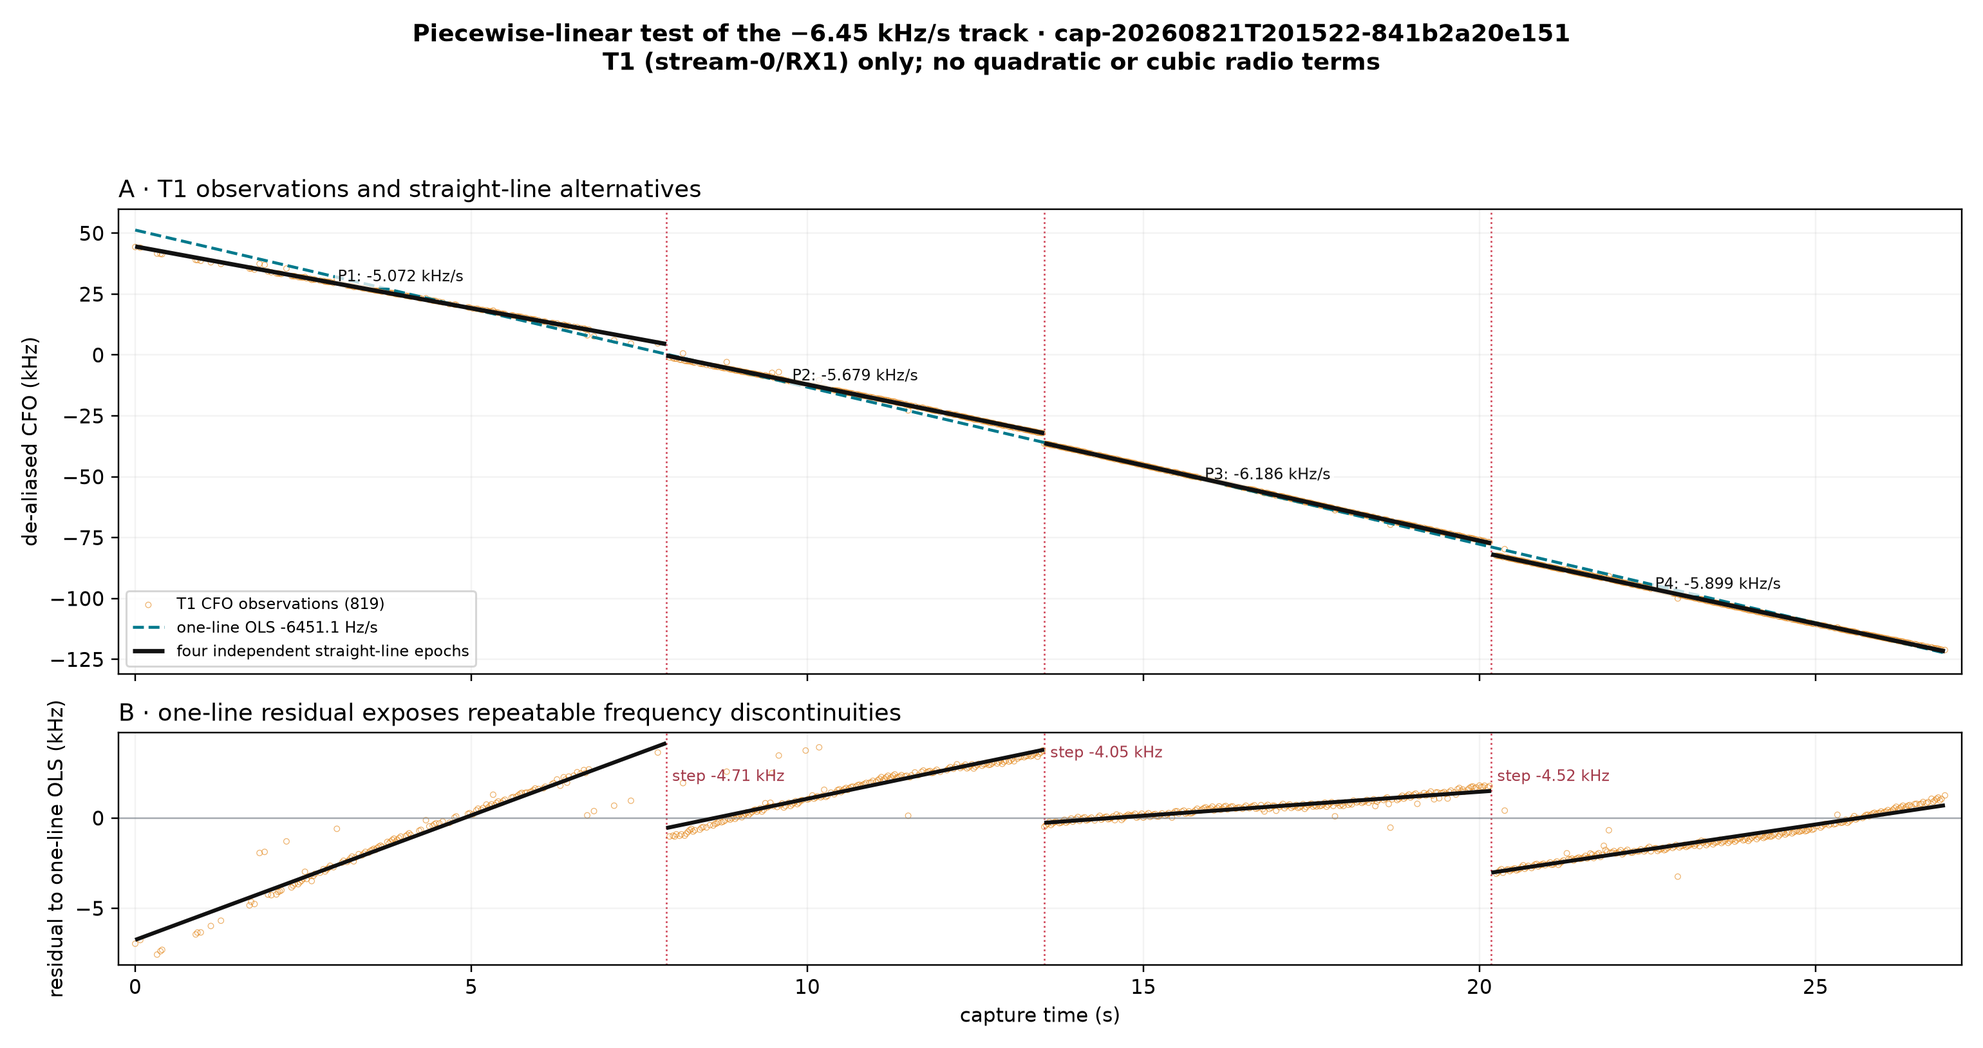
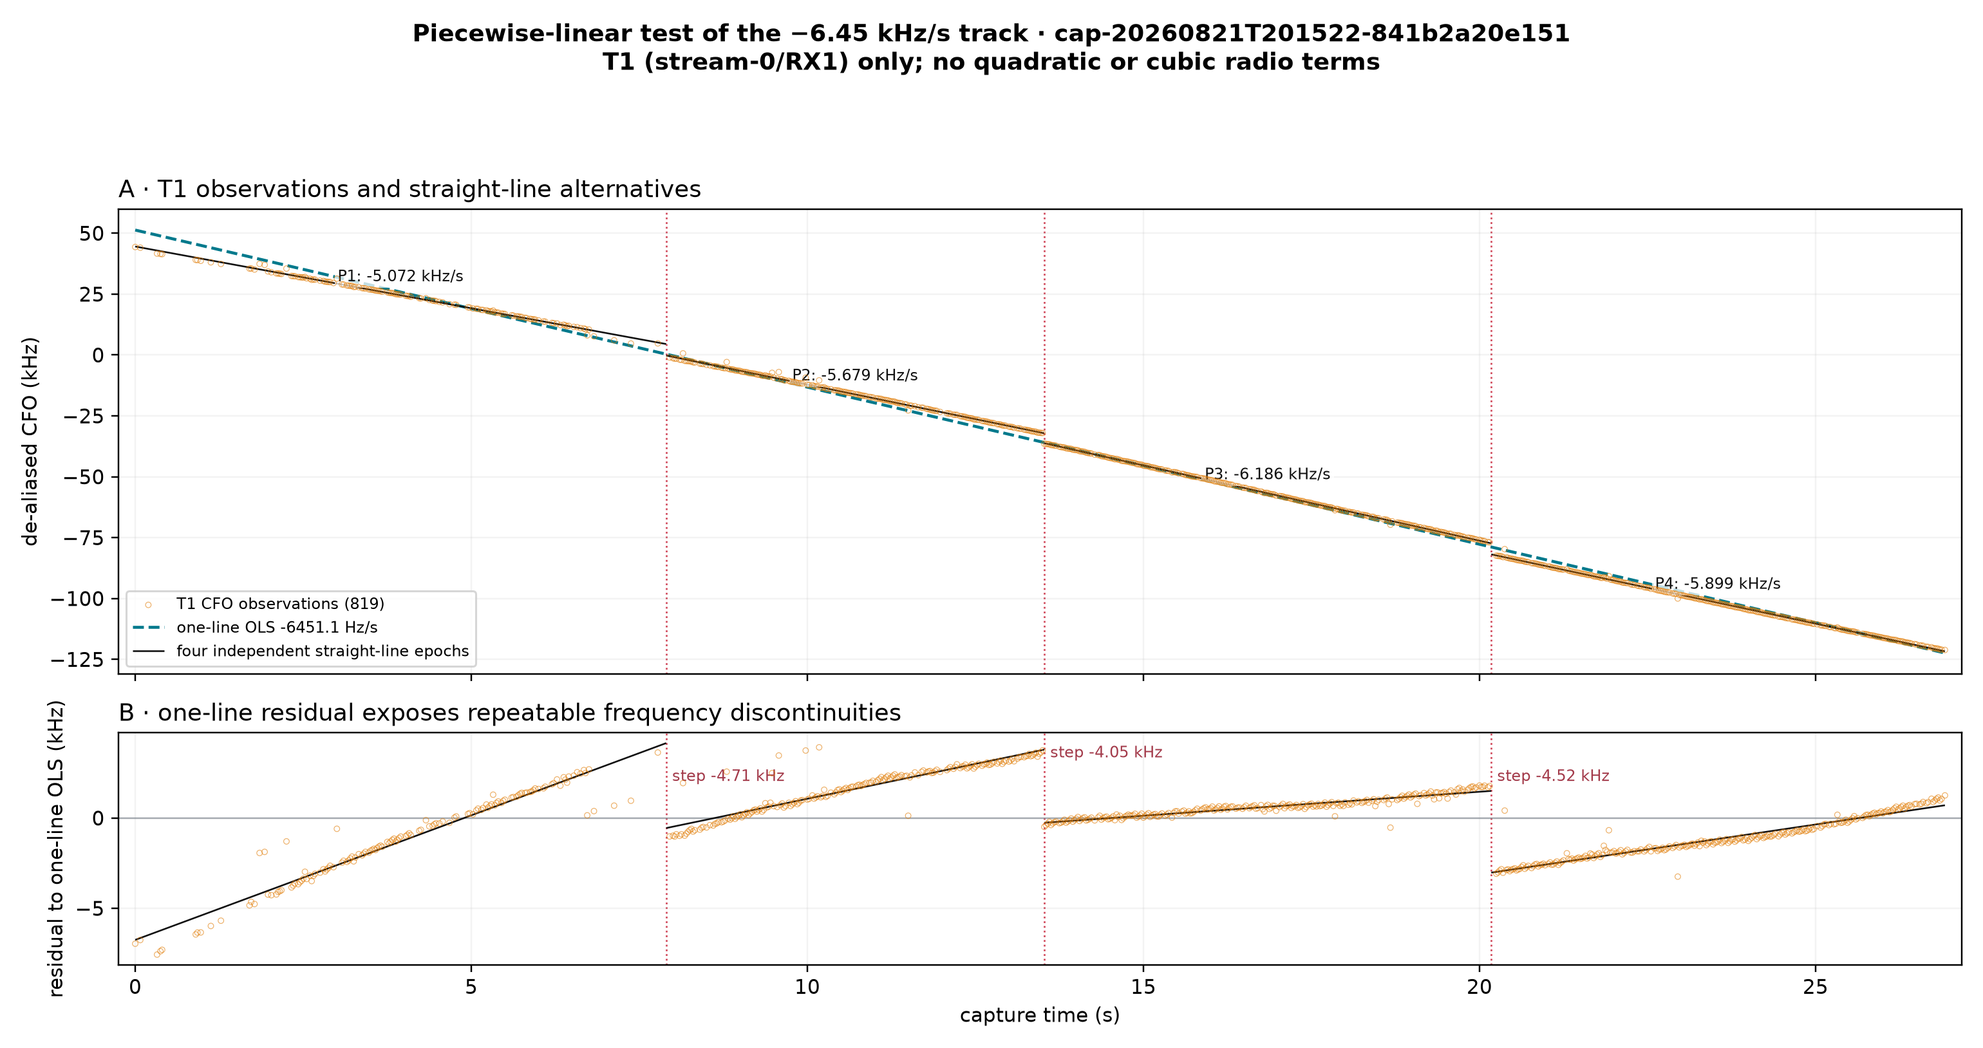
Clarify piecewise CFO residual plot

diff --git a/tools/report_five_dwell_tle_cone.py b/tools/report_five_dwell_tle_cone.py
@@ -3113,13 +3113,13 @@ def _plot_t1_piecewise_linear_detail(
         observations.time_s,
         observations.cfo_hz / 1_000.0,
         label=f"T1 CFO observations ({observations.time_s.size})",
-        zorder=2,
+        zorder=5,
         **marker_style,
     )
     residual_axis.scatter(
         observations.time_s,
         (observations.cfo_hz - global_prediction_hz) / 1_000.0,
-        zorder=2,
+        zorder=5,
         **marker_style,
     )
 
@@ -3153,10 +3153,10 @@ def _plot_t1_piecewise_linear_detail(
             line_times_s,
             line_cfo_hz / 1_000.0,
             color="#111111",
-            linewidth=2.2,
+            linewidth=0.85,
             solid_capstyle="butt",
             label=("four independent straight-line epochs" if segment["piece"] == 1 else None),
-            zorder=4,
+            zorder=3,
         )
         residual_axis.plot(
             line_times_s,
@@ -3166,9 +3166,9 @@ def _plot_t1_piecewise_linear_detail(
             )
             / 1_000.0,
             color="#111111",
-            linewidth=2.0,
+            linewidth=0.85,
             solid_capstyle="butt",
-            zorder=4,
+            zorder=3,
         )
         cfo_axis.text(
             float(segment["midpoint_s"]),
@@ -5059,6 +5059,15 @@ def _linear_markdown(document: dict[str, Any], figure_relative_root: str) -> str
                     "discontinuities. This test uses no quadratic or cubic radio model. "
                     "Breakpoints were located on the CFO observations and each epoch was "
                     "refit with an independent degree-1 OLS line.",
+                    "",
+                    "Panel B shows the same observations after subtracting the dashed "
+                    "one-line OLS prediction from panel A. Zero therefore means that an "
+                    "observation lies on the original −6451.1 Hz/s line; positive and "
+                    "negative values lie above and below it. The tilted runs show that "
+                    "each epoch has a different constant slope from the global line, and "
+                    "the abrupt downward resets at the dotted breakpoints are the fitted "
+                    "frequency steps. The thin black segments are the four-line model in "
+                    "residual coordinates—not another measurement and not Doppler rate.",
                     "",
                     "| Radio path | Breakpoints | Constant rates by epoch | Frequency "
                     "steps | RMS: one line → four lines | ΔBIC |",

diff --git a/reports/2026_08_21_tle_doppler_alignment.md b/reports/2026_08_21_tle_doppler_alignment.md
@@ -27,7 +27,7 @@ The user reports that **3 of 4 LNBs** are **GEOSATpro UL1PLL Universal Ku-Band S
 
 The ±500 kHz rating permits substantial absolute CFO uncertainty, but it does **not** demonstrate a −6 kHz/s short-term drift or synchronous 4–5 kHz steps. Three units sharing one model could share model-specific behavior; separate units would not normally step simultaneously without a shared power, thermal, reference, control, signal, or estimator cause. That distinction needs a path-to-hardware inventory and a controlled common-input test.
 
-![Five-dwell wrong-time null summary](figures/2026_08_21_five_dwell_tle_cone/five-dwell-linear-rate-null-summary.png)
+![Five-dwell wrong-time null summary](figures/five-dwell-linear-rate-null-summary.png)
 
 The left panel compares nearest-match distributions. The right panel gives each true time's lower-tail empirical percentile among 40 wrong-time skies. Smaller is better; 2.44% is the smallest resolvable value with 40 controls.
 
@@ -35,7 +35,7 @@ The left panel compares nearest-match distributions. The right panel gives each 
 
 The 5,000+ Hz/s observations are real **linear known-pilot CFO trajectories** within the recorded radio data. The unresolved step is interpreting the entire measured CFO slope as one-way geometric orbital Doppler. These are different claims, and the evidence strongly supports only the first so far.
 
-![Five-dwell error-source audit](figures/2026_08_21_five_dwell_tle_cone/five-dwell-error-source-audit.png)
+![Five-dwell error-source audit](figures/five-dwell-error-source-audit.png)
 
 Every panel above uses the same Doppler-rate Y axis. The connected points in panel A show that most long radio tracks are systematically more negative than their nearest causal Space-Track prediction, rather than being random weak detections.
 
@@ -85,11 +85,11 @@ The comparison is deliberately like-for-like: **before replay** contains only ra
 | Before replay | 63 | -5468.9 Hz/s | -5832.7 to -4909.6 Hz/s | -8836.1 to -2801.8 Hz/s |
 | After replay | 61 | -5470.3 Hz/s | -5819.6 to -4925.7 Hz/s | -8630.7 to -2808.8 Hz/s |
 
-![Five-dwell detected linear-rate histogram](figures/2026_08_21_five_dwell_tle_cone/five-dwell-before-after-linear-rate-histogram.png)
+![Five-dwell detected linear-rate histogram](figures/five-dwell-before-after-linear-rate-histogram.png)
 
 Dashed vertical lines mark medians. The right-hand ECDF avoids conclusions that depend on histogram bin boundaries.
 
-![Detected linear-rate histograms by dwell](figures/2026_08_21_five_dwell_tle_cone/five-dwell-before-after-linear-rate-by-dwell.png)
+![Detected linear-rate histograms by dwell](figures/five-dwell-before-after-linear-rate-by-dwell.png)
 
 All dwell panels use the same bin edges, X axis, and Y axis.
 
@@ -143,13 +143,13 @@ Observer: 37.858988, -122.478103, -29 m. GPS source: `reviewed spinnaker-sausali
 
 ### Raw GLRT tracks — linear candidates only
 
-![Raw linear GLRT tracks for cap-20260821T201522-841b2a20e151](figures/2026_08_21_five_dwell_tle_cone/20260821T201522-841b2a20e151-raw-linear-glrt-tracks.png)
+![Raw linear GLRT tracks for cap-20260821T201522-841b2a20e151](figures/20260821T201522-841b2a20e151-raw-linear-glrt-tracks.png)
 
 All four receiver-path panels share one CFO Y axis.
 
 ### Retained tracks refit linearly from observations
 
-![Final radio tracks refit linearly for cap-20260821T201522-841b2a20e151](figures/2026_08_21_five_dwell_tle_cone/20260821T201522-841b2a20e151-final-linear-radio-tracks.png)
+![Final radio tracks refit linearly for cap-20260821T201522-841b2a20e151](figures/20260821T201522-841b2a20e151-final-linear-radio-tracks.png)
 
 All four receiver-path panels share one CFO Y axis.
 
@@ -163,7 +163,7 @@ All four receiver-path panels share one CFO Y axis.
 
 ### Focused audit: -6451.1 Hz/s
 
-![Focused audit of the -6451.1 Hz/s track](figures/2026_08_21_five_dwell_tle_cone/20260821T201522-841b2a20e151-minus-6451-rate-audit.png)
+![Focused audit of the -6451.1 Hz/s track](figures/20260821T201522-841b2a20e151-minus-6451-rate-audit.png)
 
 This is strong evidence for a real coherent **Starlink-format known-pilot trajectory**, but it is not yet a spacecraft identification. The raw GLRT detection and replayed observations independently support essentially the same straight-line rate.
 
@@ -201,9 +201,11 @@ A simultaneous track on `stream-1/RX1` overlaps for 26.475 s and measures -6048.
 
 #### Piecewise-linear test of the −6.45 kHz/s track
 
-![T1-only piecewise-linear CFO audit](figures/2026_08_21_five_dwell_tle_cone/20260821T201522-841b2a20e151-t1-piecewise-linear-detail.png)
+![T1-only piecewise-linear CFO audit](figures/20260821T201522-841b2a20e151-t1-piecewise-linear-detail.png)
 
 The focused figure shows only T1 (`stream-0/RX1`). Thin orange markers are the individual replayed CFO observations; the residual panel makes the departures from one global line visible without adding visual height. The apparent single ramp is better represented by four independent straight epochs separated by downward frequency discontinuities. This test uses no quadratic or cubic radio model. Breakpoints were located on the CFO observations and each epoch was refit with an independent degree-1 OLS line.
+
+Panel B shows the same observations after subtracting the dashed one-line OLS prediction from panel A. Zero therefore means that an observation lies on the original −6451.1 Hz/s line; positive and negative values lie above and below it. The tilted runs show that each epoch has a different constant slope from the global line, and the abrupt downward resets at the dotted breakpoints are the fitted frequency steps. The thin black segments are the four-line model in residual coordinates—not another measurement and not Doppler rate.
 
 | Radio path | Breakpoints | Constant rates by epoch | Frequency steps | RMS: one line → four lines | ΔBIC |
 |---|---|---|---|---:|---:|
@@ -257,19 +259,19 @@ Sources: [Starlink constellation altitudes](https://space-safety.starlink.com/do
 
 ### Satellite rate field versus zenith angle
 
-![Legacy-style satellite rate field for cap-20260821T201522-841b2a20e151](figures/2026_08_21_five_dwell_tle_cone/20260821T201522-841b2a20e151-legacy-linear-rate-field.png)
+![Legacy-style satellite rate field for cap-20260821T201522-841b2a20e151](figures/20260821T201522-841b2a20e151-legacy-linear-rate-field.png)
 
 Gray points are all Starlinks above 10° at the track midpoint. The black line is the single measured radio rate; colored rings mark the five nearest rate matches. All three track panels share one rate Y axis.
 
 ### Full-capture overlay
 
-![Linear radio and TLE time overlay for cap-20260821T201522-841b2a20e151](figures/2026_08_21_five_dwell_tle_cone/20260821T201522-841b2a20e151-linear-rate-time-overlay.png)
+![Linear radio and TLE time overlay for cap-20260821T201522-841b2a20e151](figures/20260821T201522-841b2a20e151-linear-rate-time-overlay.png)
 
 Black is constant by construction and is drawn only across the radio track. Colored curves are the three nearest TLE-predicted rates and may vary with time; their curvature is orbital prediction, not a nonlinear radio estimate. All three track panels share one rate Y axis.
 
 ### Wrong-time null controls
 
-![Wrong-time null controls for cap-20260821T201522-841b2a20e151](figures/2026_08_21_five_dwell_tle_cone/20260821T201522-841b2a20e151-linear-rate-null-controls.png)
+![Wrong-time null controls for cap-20260821T201522-841b2a20e151](figures/20260821T201522-841b2a20e151-linear-rate-null-controls.png)
 
 Zero seconds is the true sky. The other 40 points deliberately use the wrong sky time. A compelling scalar-rate match should have an unusually small zero-time error and limited match multiplicity. Error panels share one Y axis; multiplicity panels share a separate common Y axis.
 
@@ -297,13 +299,13 @@ Zero seconds is the true sky. The other 40 points deliberately use the wrong sky
 
 ### Raw GLRT tracks — linear candidates only
 
-![Raw linear GLRT tracks for cap-20260821T193701-87f96f47e73f](figures/2026_08_21_five_dwell_tle_cone/20260821T193701-87f96f47e73f-raw-linear-glrt-tracks.png)
+![Raw linear GLRT tracks for cap-20260821T193701-87f96f47e73f](figures/20260821T193701-87f96f47e73f-raw-linear-glrt-tracks.png)
 
 All four receiver-path panels share one CFO Y axis.
 
 ### Retained tracks refit linearly from observations
 
-![Final radio tracks refit linearly for cap-20260821T193701-87f96f47e73f](figures/2026_08_21_five_dwell_tle_cone/20260821T193701-87f96f47e73f-final-linear-radio-tracks.png)
+![Final radio tracks refit linearly for cap-20260821T193701-87f96f47e73f](figures/20260821T193701-87f96f47e73f-final-linear-radio-tracks.png)
 
 All four receiver-path panels share one CFO Y axis.
 
@@ -317,19 +319,19 @@ All four receiver-path panels share one CFO Y axis.
 
 ### Satellite rate field versus zenith angle
 
-![Legacy-style satellite rate field for cap-20260821T193701-87f96f47e73f](figures/2026_08_21_five_dwell_tle_cone/20260821T193701-87f96f47e73f-legacy-linear-rate-field.png)
+![Legacy-style satellite rate field for cap-20260821T193701-87f96f47e73f](figures/20260821T193701-87f96f47e73f-legacy-linear-rate-field.png)
 
 Gray points are all Starlinks above 10° at the track midpoint. The black line is the single measured radio rate; colored rings mark the five nearest rate matches. All three track panels share one rate Y axis.
 
 ### Full-capture overlay
 
-![Linear radio and TLE time overlay for cap-20260821T193701-87f96f47e73f](figures/2026_08_21_five_dwell_tle_cone/20260821T193701-87f96f47e73f-linear-rate-time-overlay.png)
+![Linear radio and TLE time overlay for cap-20260821T193701-87f96f47e73f](figures/20260821T193701-87f96f47e73f-linear-rate-time-overlay.png)
 
 Black is constant by construction and is drawn only across the radio track. Colored curves are the three nearest TLE-predicted rates and may vary with time; their curvature is orbital prediction, not a nonlinear radio estimate. All three track panels share one rate Y axis.
 
 ### Wrong-time null controls
 
-![Wrong-time null controls for cap-20260821T193701-87f96f47e73f](figures/2026_08_21_five_dwell_tle_cone/20260821T193701-87f96f47e73f-linear-rate-null-controls.png)
+![Wrong-time null controls for cap-20260821T193701-87f96f47e73f](figures/20260821T193701-87f96f47e73f-linear-rate-null-controls.png)
 
 Zero seconds is the true sky. The other 40 points deliberately use the wrong sky time. A compelling scalar-rate match should have an unusually small zero-time error and limited match multiplicity. Error panels share one Y axis; multiplicity panels share a separate common Y axis.
 
@@ -357,13 +359,13 @@ Zero seconds is the true sky. The other 40 points deliberately use the wrong sky
 
 ### Raw GLRT tracks — linear candidates only
 
-![Raw linear GLRT tracks for cap-20260821T193440-17c2e0ebef6a](figures/2026_08_21_five_dwell_tle_cone/20260821T193440-17c2e0ebef6a-raw-linear-glrt-tracks.png)
+![Raw linear GLRT tracks for cap-20260821T193440-17c2e0ebef6a](figures/20260821T193440-17c2e0ebef6a-raw-linear-glrt-tracks.png)
 
 All four receiver-path panels share one CFO Y axis.
 
 ### Retained tracks refit linearly from observations
 
-![Final radio tracks refit linearly for cap-20260821T193440-17c2e0ebef6a](figures/2026_08_21_five_dwell_tle_cone/20260821T193440-17c2e0ebef6a-final-linear-radio-tracks.png)
+![Final radio tracks refit linearly for cap-20260821T193440-17c2e0ebef6a](figures/20260821T193440-17c2e0ebef6a-final-linear-radio-tracks.png)
 
 All four receiver-path panels share one CFO Y axis.
 
@@ -377,19 +379,19 @@ All four receiver-path panels share one CFO Y axis.
 
 ### Satellite rate field versus zenith angle
 
-![Legacy-style satellite rate field for cap-20260821T193440-17c2e0ebef6a](figures/2026_08_21_five_dwell_tle_cone/20260821T193440-17c2e0ebef6a-legacy-linear-rate-field.png)
+![Legacy-style satellite rate field for cap-20260821T193440-17c2e0ebef6a](figures/20260821T193440-17c2e0ebef6a-legacy-linear-rate-field.png)
 
 Gray points are all Starlinks above 10° at the track midpoint. The black line is the single measured radio rate; colored rings mark the five nearest rate matches. All three track panels share one rate Y axis.
 
 ### Full-capture overlay
 
-![Linear radio and TLE time overlay for cap-20260821T193440-17c2e0ebef6a](figures/2026_08_21_five_dwell_tle_cone/20260821T193440-17c2e0ebef6a-linear-rate-time-overlay.png)
+![Linear radio and TLE time overlay for cap-20260821T193440-17c2e0ebef6a](figures/20260821T193440-17c2e0ebef6a-linear-rate-time-overlay.png)
 
 Black is constant by construction and is drawn only across the radio track. Colored curves are the three nearest TLE-predicted rates and may vary with time; their curvature is orbital prediction, not a nonlinear radio estimate. All three track panels share one rate Y axis.
 
 ### Wrong-time null controls
 
-![Wrong-time null controls for cap-20260821T193440-17c2e0ebef6a](figures/2026_08_21_five_dwell_tle_cone/20260821T193440-17c2e0ebef6a-linear-rate-null-controls.png)
+![Wrong-time null controls for cap-20260821T193440-17c2e0ebef6a](figures/20260821T193440-17c2e0ebef6a-linear-rate-null-controls.png)
 
 Zero seconds is the true sky. The other 40 points deliberately use the wrong sky time. A compelling scalar-rate match should have an unusually small zero-time error and limited match multiplicity. Error panels share one Y axis; multiplicity panels share a separate common Y axis.
 
@@ -417,13 +419,13 @@ Zero seconds is the true sky. The other 40 points deliberately use the wrong sky
 
 ### Raw GLRT tracks — linear candidates only
 
-![Raw linear GLRT tracks for cap-20260821T190912-ffd441556880](figures/2026_08_21_five_dwell_tle_cone/20260821T190912-ffd441556880-raw-linear-glrt-tracks.png)
+![Raw linear GLRT tracks for cap-20260821T190912-ffd441556880](figures/20260821T190912-ffd441556880-raw-linear-glrt-tracks.png)
 
 All four receiver-path panels share one CFO Y axis.
 
 ### Retained tracks refit linearly from observations
 
-![Final radio tracks refit linearly for cap-20260821T190912-ffd441556880](figures/2026_08_21_five_dwell_tle_cone/20260821T190912-ffd441556880-final-linear-radio-tracks.png)
+![Final radio tracks refit linearly for cap-20260821T190912-ffd441556880](figures/20260821T190912-ffd441556880-final-linear-radio-tracks.png)
 
 All four receiver-path panels share one CFO Y axis.
 
@@ -437,19 +439,19 @@ All four receiver-path panels share one CFO Y axis.
 
 ### Satellite rate field versus zenith angle
 
-![Legacy-style satellite rate field for cap-20260821T190912-ffd441556880](figures/2026_08_21_five_dwell_tle_cone/20260821T190912-ffd441556880-legacy-linear-rate-field.png)
+![Legacy-style satellite rate field for cap-20260821T190912-ffd441556880](figures/20260821T190912-ffd441556880-legacy-linear-rate-field.png)
 
 Gray points are all Starlinks above 10° at the track midpoint. The black line is the single measured radio rate; colored rings mark the five nearest rate matches. All three track panels share one rate Y axis.
 
 ### Full-capture overlay
 
-![Linear radio and TLE time overlay for cap-20260821T190912-ffd441556880](figures/2026_08_21_five_dwell_tle_cone/20260821T190912-ffd441556880-linear-rate-time-overlay.png)
+![Linear radio and TLE time overlay for cap-20260821T190912-ffd441556880](figures/20260821T190912-ffd441556880-linear-rate-time-overlay.png)
 
 Black is constant by construction and is drawn only across the radio track. Colored curves are the three nearest TLE-predicted rates and may vary with time; their curvature is orbital prediction, not a nonlinear radio estimate. All three track panels share one rate Y axis.
 
 ### Wrong-time null controls
 
-![Wrong-time null controls for cap-20260821T190912-ffd441556880](figures/2026_08_21_five_dwell_tle_cone/20260821T190912-ffd441556880-linear-rate-null-controls.png)
+![Wrong-time null controls for cap-20260821T190912-ffd441556880](figures/20260821T190912-ffd441556880-linear-rate-null-controls.png)
 
 Zero seconds is the true sky. The other 40 points deliberately use the wrong sky time. A compelling scalar-rate match should have an unusually small zero-time error and limited match multiplicity. Error panels share one Y axis; multiplicity panels share a separate common Y axis.
 
@@ -477,13 +479,13 @@ Zero seconds is the true sky. The other 40 points deliberately use the wrong sky
 
 ### Raw GLRT tracks — linear candidates only
 
-![Raw linear GLRT tracks for cap-20260821T190701-7a5d980ec1c6](figures/2026_08_21_five_dwell_tle_cone/20260821T190701-7a5d980ec1c6-raw-linear-glrt-tracks.png)
+![Raw linear GLRT tracks for cap-20260821T190701-7a5d980ec1c6](figures/20260821T190701-7a5d980ec1c6-raw-linear-glrt-tracks.png)
 
 All four receiver-path panels share one CFO Y axis.
 
 ### Retained tracks refit linearly from observations
 
-![Final radio tracks refit linearly for cap-20260821T190701-7a5d980ec1c6](figures/2026_08_21_five_dwell_tle_cone/20260821T190701-7a5d980ec1c6-final-linear-radio-tracks.png)
+![Final radio tracks refit linearly for cap-20260821T190701-7a5d980ec1c6](figures/20260821T190701-7a5d980ec1c6-final-linear-radio-tracks.png)
 
 All four receiver-path panels share one CFO Y axis.
 
@@ -497,19 +499,19 @@ All four receiver-path panels share one CFO Y axis.
 
 ### Satellite rate field versus zenith angle
 
-![Legacy-style satellite rate field for cap-20260821T190701-7a5d980ec1c6](figures/2026_08_21_five_dwell_tle_cone/20260821T190701-7a5d980ec1c6-legacy-linear-rate-field.png)
+![Legacy-style satellite rate field for cap-20260821T190701-7a5d980ec1c6](figures/20260821T190701-7a5d980ec1c6-legacy-linear-rate-field.png)
 
 Gray points are all Starlinks above 10° at the track midpoint. The black line is the single measured radio rate; colored rings mark the five nearest rate matches. All three track panels share one rate Y axis.
 
 ### Full-capture overlay
 
-![Linear radio and TLE time overlay for cap-20260821T190701-7a5d980ec1c6](figures/2026_08_21_five_dwell_tle_cone/20260821T190701-7a5d980ec1c6-linear-rate-time-overlay.png)
+![Linear radio and TLE time overlay for cap-20260821T190701-7a5d980ec1c6](figures/20260821T190701-7a5d980ec1c6-linear-rate-time-overlay.png)
 
 Black is constant by construction and is drawn only across the radio track. Colored curves are the three nearest TLE-predicted rates and may vary with time; their curvature is orbital prediction, not a nonlinear radio estimate. All three track panels share one rate Y axis.
 
 ### Wrong-time null controls
 
-![Wrong-time null controls for cap-20260821T190701-7a5d980ec1c6](figures/2026_08_21_five_dwell_tle_cone/20260821T190701-7a5d980ec1c6-linear-rate-null-controls.png)
+![Wrong-time null controls for cap-20260821T190701-7a5d980ec1c6](figures/20260821T190701-7a5d980ec1c6-linear-rate-null-controls.png)
 
 Zero seconds is the true sky. The other 40 points deliberately use the wrong sky time. A compelling scalar-rate match should have an unusually small zero-time error and limited match multiplicity. Error panels share one Y axis; multiplicity panels share a separate common Y axis.
 
